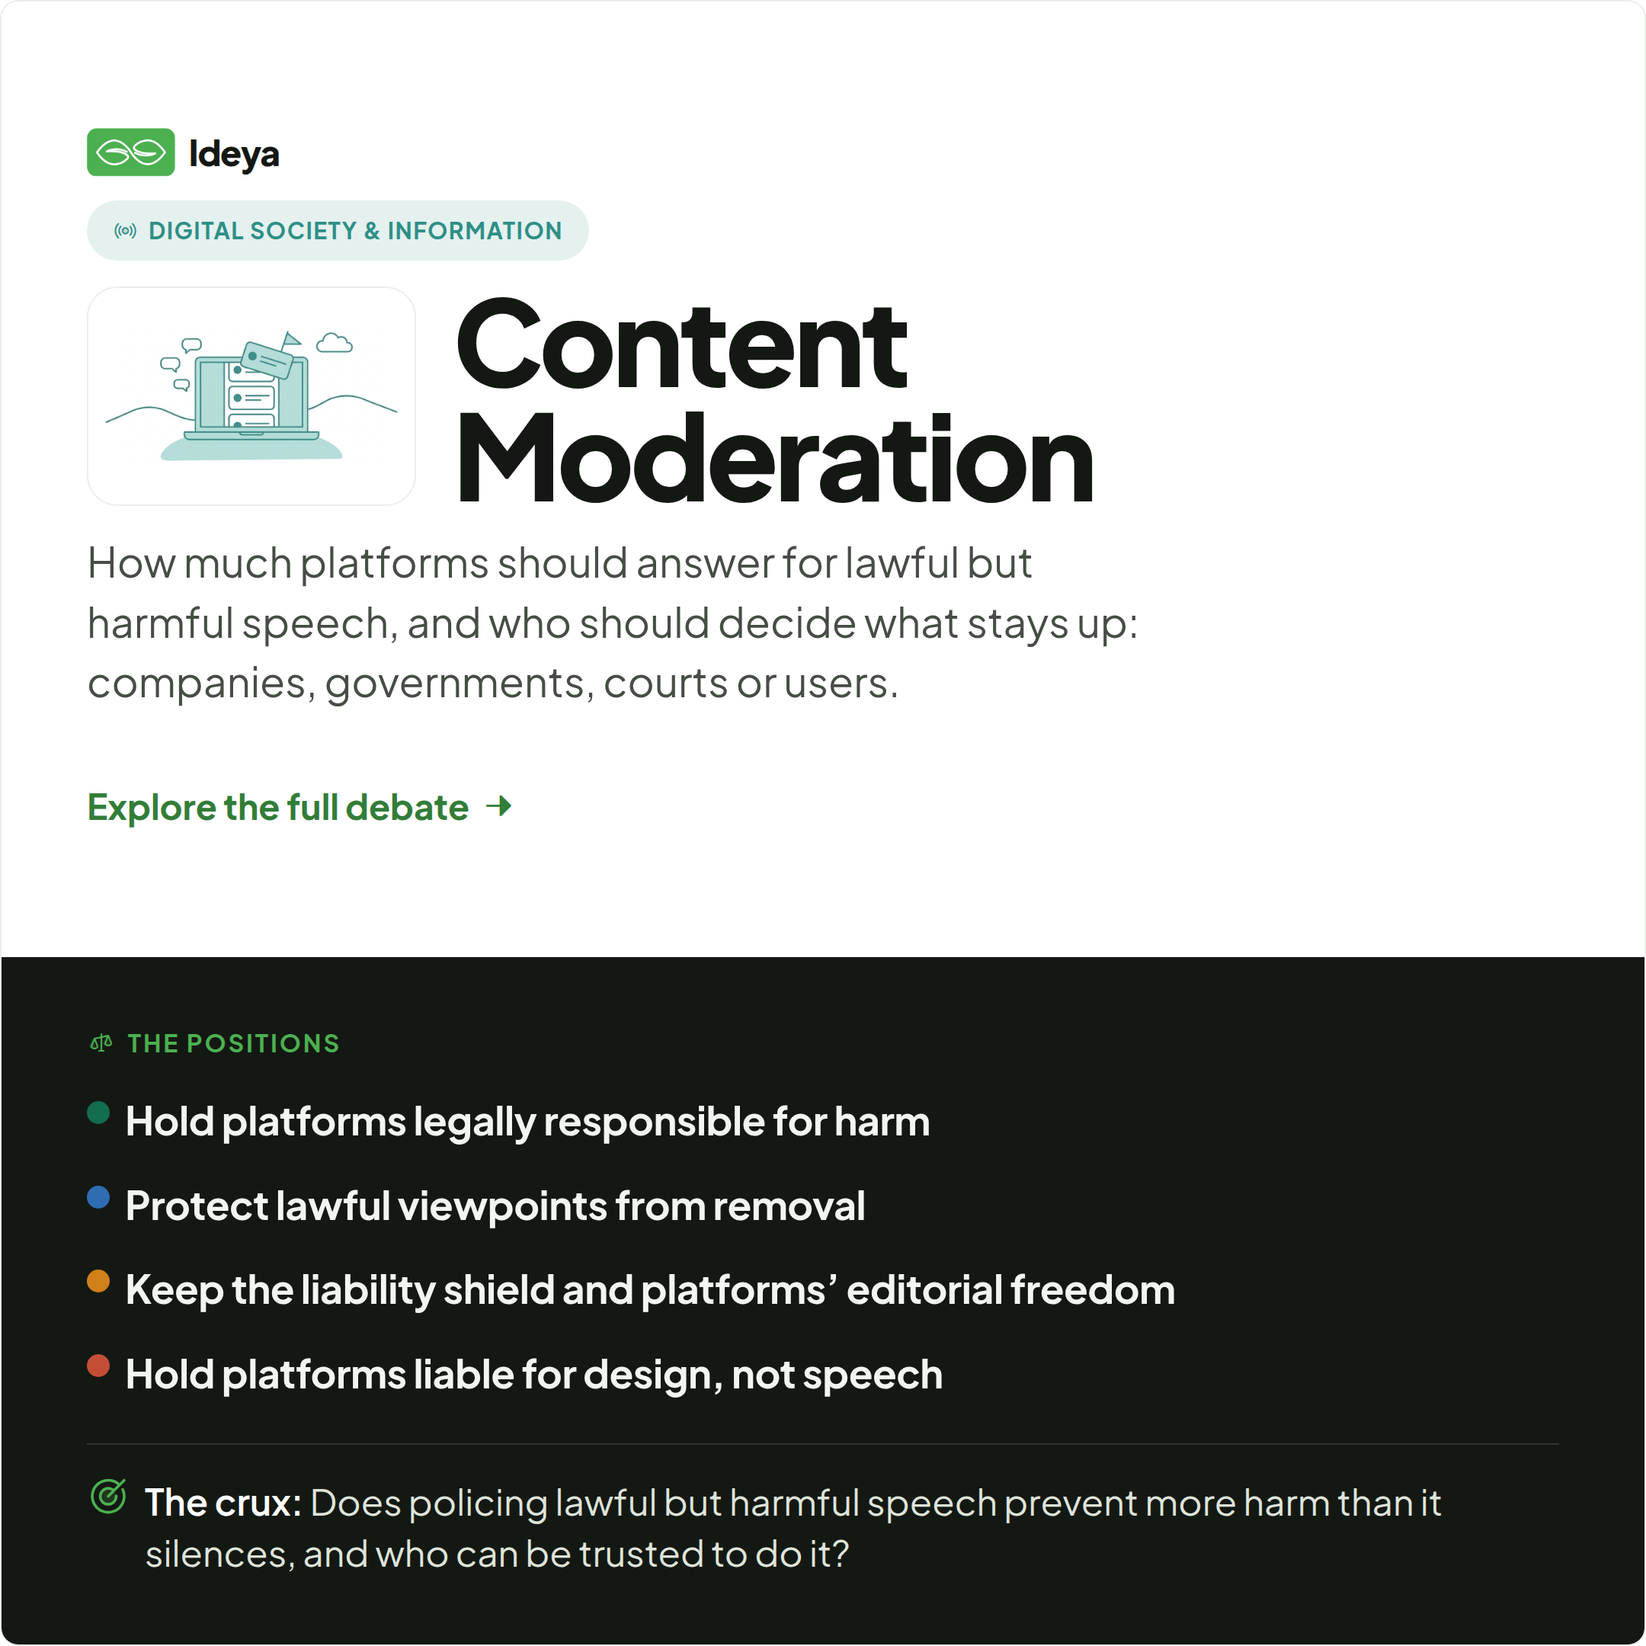
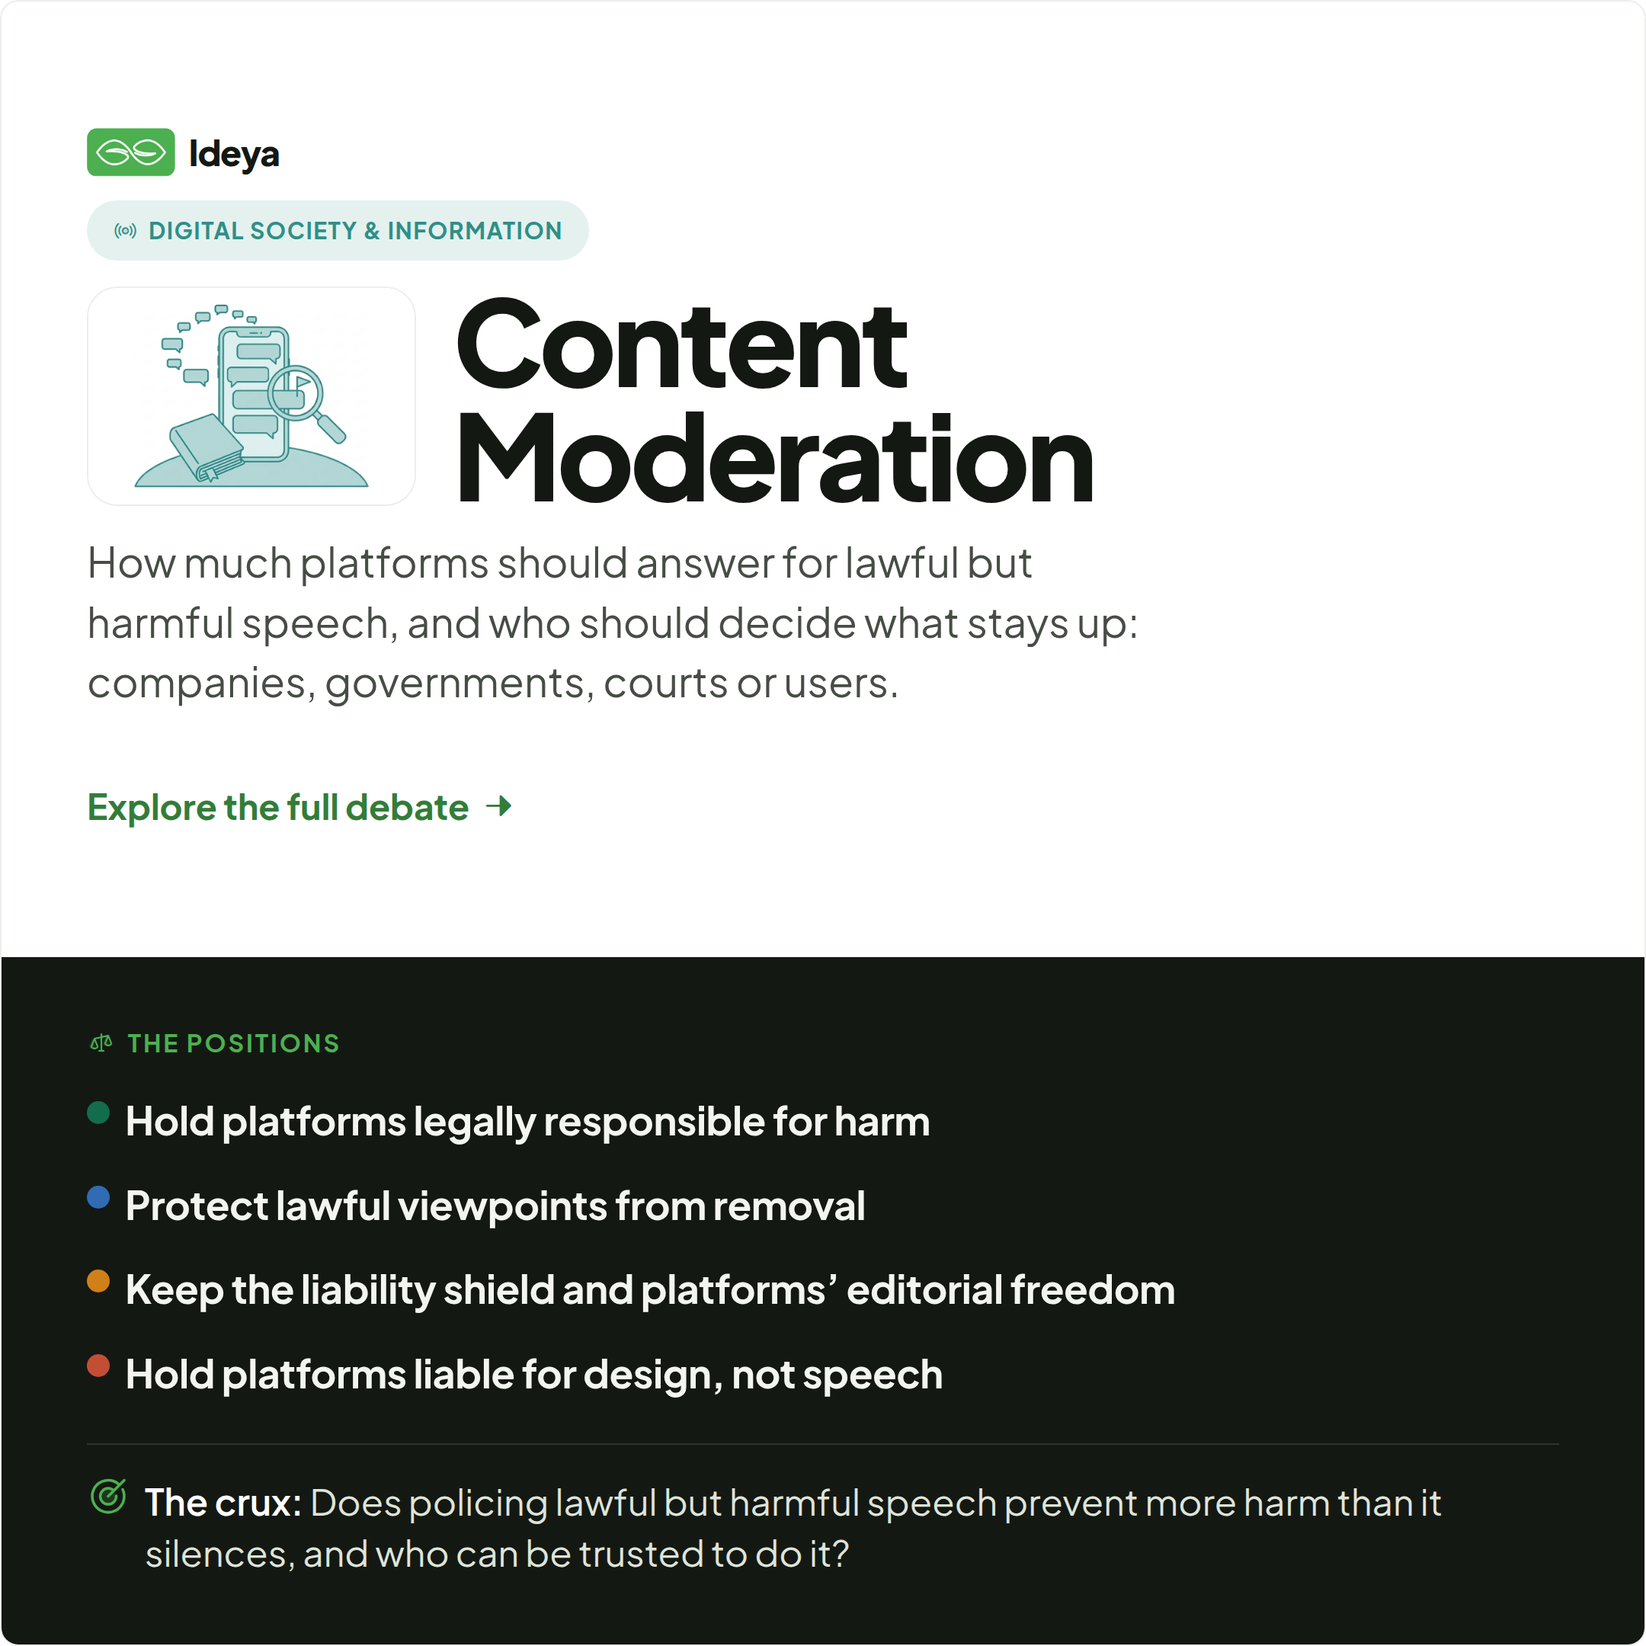
New art for content moderation, gender identity and abortion
The old scenes did not read at card size: a generic laptop feed, a book
and a house on an oval, and an ultrasound fused into a wheeled machine.
Now a feed under review with a rulebook; an ID card with lockers, a
stethoscope and a hurdle; an ultrasound on a pole stand with a calendar
and a statehouse. Share cards re-rendered.

Changed region(s): [[0.0931, 0.1861, 0.2171, 0.3102]]

diff --git a/research/topics/moral-status-of-the-unborn/icon.md b/research/topics/moral-status-of-the-unborn/icon.md
@@ -4,16 +4,16 @@ Deliverable: `static/img/topics/moral-status-of-the-unborn.png`, 1035×690 on wh
 
 ## Scene
 
-A clinic ultrasound cart is the dominant mass, standing right of center with a large
-rounded monitor whose screen holds only an abstract wedge-shaped scan cone with three
-plain sweep arcs inside it and no object of any kind within the cone; its handheld probe hangs on a coiled cord that crosses in front of the cart's
-base. Behind and overlapping the cart's left edge stands a tall wall calendar, its grid
-of week squares partly hidden by the monitor. Low and small at the front sits a closed
-statute book with a ribbon marker, overlapping the cart's wheels. A small domed
-legislative building sits far back on the left at the end of a curving path that sweeps
-out of the lower left corner, past the book, and behind the cart, over a gently rounded
-ground mound rather than a flat line. A thin horizon curve runs edge to edge behind
-everything.
+A large flat ultrasound monitor is the dominant mass, right of center, mounted on one
+slim vertical pole that rises from a small round five-wheeled base, exactly like a hospital
+monitor stand; the screen shows only an abstract wedge-shaped scan cone with three plain
+sweep arcs and nothing inside the cone, and a single handheld probe rests in a small cup
+holder on the pole, its smooth cord hanging in one simple open loop. Low at the front left,
+overlapping the foot of the stand, sits a small desk calendar with a flip page of plain empty
+week squares. Far back on the left, small, a domed legislative building sits on a gently
+rounded hill, and a curving path sweeps from the lower left corner past the calendar up to
+its steps. A thin horizon curve runs edge to edge behind everything. Each object is simple,
+separate in shape and clearly what it is.
 
 ## Negatives
 
@@ -26,7 +26,7 @@ no speech bubbles, no frame or border, no second hue, no shading gradients
 
 ## Prompt
 
-> A minimalist flat vector-style icon illustration, in a clean editorial line-art style: A clinic ultrasound cart is the dominant mass, standing right of center with a large rounded monitor whose screen holds only an abstract wedge-shaped scan cone with three plain sweep arcs inside it and no object of any kind within the cone; its handheld probe hangs on a coiled cord that crosses in front of the cart's base. Behind and overlapping the cart's left edge stands a tall wall calendar, its grid of week squares partly hidden by the monitor. Low and small at the front sits a closed statute book with a ribbon marker, overlapping the cart's wheels. A small domed legislative building sits far back on the left at the end of a curving path that sweeps out of the lower left corner, past the book, and behind the cart, over a gently rounded ground mound rather than a flat line. A thin horizon curve runs edge to edge behind everything.
+> A minimalist flat vector-style icon illustration, in a clean editorial line-art style: A large flat ultrasound monitor is the dominant mass, right of center, mounted on one slim vertical pole that rises from a small round five-wheeled base, exactly like a hospital monitor stand; the screen shows only an abstract wedge-shaped scan cone with three plain sweep arcs and nothing inside the cone, and a single handheld probe rests in a small cup holder on the pole, its smooth cord hanging in one simple open loop. Low at the front left, overlapping the foot of the stand, sits a small desk calendar with a flip page of plain empty week squares. Far back on the left, small, a domed legislative building sits on a gently rounded hill, and a curving path sweeps from the lower left corner past the calendar up to its steps. A thin horizon curve runs edge to edge behind everything. Each object is simple, separate in shape and clearly what it is.
 >
 > Composition: one dominant focal mass with smaller supporting elements at clearly different scales (big, medium, small); at least one element overlaps another so the scene has depth; the ground is a gentle curve, never a flat line; one connective element runs across the frame to tie the pieces together. A single coherent scene, not a row of separate objects. Centered with generous, even padding.
 >
@@ -42,3 +42,5 @@ Round 1, two scenes at two samples each. Scene A: ultrasound cart dominant, cale
 Round 2, one edit on r1-a naming the faults (statehouse strokes too thin and over-detailed, cart body and monitor bezel unfilled, calendar page unfilled, stray ticks). Picked r2-b: dome simplified to one uniform weight, cart body and calendar now carry the fill; r2-a kept the cart body white.
 Normalized r2-b; the 40px thumbnail still reads as a monitor-on-a-cart with the scan image. Glyph: baby — the most literal available for the unborn, unused in the ethics category.
 Fix round 3 (human review: the fetal outline on the screen made the art read as pro-life persuasion). One edit on r2-b, composition and all other elements held, screen contents replaced with an abstract scan cone and three sweep arcs. Picked r3-a: cone empty, arcs at the same stroke weight, everything else unchanged; r3-b was identical but for slightly tighter arc spacing. Brief Scene, Negatives and Prompt updated to match. Glyph unchanged: baby.
+Fix round 4 (owner review: the cart and monitor fused into one odd robot-like object; the wall calendar behind and the statute book in front added clutter). New scenes, two samples each. Scene A: flat monitor on a slim pole stand, small desk calendar at its foot, domed statehouse on a hill with a path; book dropped. Scene B: statehouse on a hill, monitor on a pole, a numberless clock in the sky. Picked r4-b: the monitor and scan cone read at once as a clinic ultrasound, the calendar is a plain desk calendar, the statehouse sits small behind; r4-a is the same scene with a hollow pole and a busier statehouse; r4-c and r4-d float the clock and the monitor, and r4-d gives the hill a heavy fill.
+Fix round 5, one edit on r4-b (simplify the statehouse, fill the hill, lighten the calendar's darker support triangle). Both samples filled the whole lower half as a hard-edged block that reads as a box, and the triangle stayed dark; neither beats r4-b, so stopped. Normalized r4-b; at 40px the monitor and cone read clearly. Residual faults for a human: the statehouse is drawn a little finer than the rest, and the calendar's back support carries a darker fill. Glyph unchanged: baby.

diff --git a/research/topics/content-moderation-free-speech/icon.md b/research/topics/content-moderation-free-speech/icon.md
@@ -4,13 +4,13 @@ The topic's primary art: `static/img/topics/content-moderation-free-speech.png`,
 Style, composition rules and the common negatives are supplied by `manage.py generate_icon`; this file carries only the scene and this subject's own negatives, plus the selection log.
 
 ## Scene
-a large open laptop seen from the front as the dominant focal mass, its screen showing a simple feed of three stacked post cards, each card a rounded rectangle with a plain filled circle dot and two short blank lines; the top card is lifted out of the column and tilted, overlapping the laptop's upper right frame, with a small triangular pennant flag on a short pole at its corner; everything flat, no drop shadow under any element; three small rounded speech bubbles with no text rise in a loose trail from behind the laptop to the upper left; the laptop sits on a low rounded mound, outlined and softly filled; one long thin rolling hill line runs across the whole width of the frame behind the mound as the connective element; a small cloud at the upper right.
+a large upright smartphone as the dominant focal mass, its screen showing a feed of four blank rounded speech bubbles of different widths stacked like posts, no text; a medium magnifying glass overlaps the phone's right edge, its round lens held over one of the bubbles, and that bubble carries a small triangular pennant flag on a short pole; a closed thick rulebook with a plain cover and a bookmark ribbon, no text, leans against the phone's lower left; the phone stands on the gentle curve of a low rounded mound, outlined and softly filled; a trail of small blank speech bubbles rises from the top of the phone and arcs across the frame to the upper left as the connective element.
 
 ## Negatives
 people, hands, faces, text, letters, logos, platform logos, bird, thumbs up, likes, hearts, padlocks, gags, taped mouths, muzzles, chains, scissors, erasers, trash cans, red X marks, crossed-out bubbles, prohibition signs, slashes, stop signs, censored bars, megaphones, gavels, scales of justice, courthouses, flags of nations, shields, warning triangles, exclamation marks, fire, arrows.
 
 ## Prompt
-> A minimalist flat vector-style icon illustration, in a clean editorial line-art style: a large open laptop seen from the front as the dominant focal mass, its screen showing a simple feed of three stacked post cards, each card a rounded rectangle with a plain filled circle dot and two short blank lines; the top card is lifted out of the column and tilted, overlapping the laptop's upper right frame, with a small triangular pennant flag on a short pole at its corner; everything flat, no drop shadow under any element; three small rounded speech bubbles with no text rise in a loose trail from behind the laptop to the upper left; the laptop sits on a low rounded mound, outlined and softly filled; one long thin rolling hill line runs across the whole width of the frame behind the mound as the connective element; a small cloud at the upper right.
+> A minimalist flat vector-style icon illustration, in a clean editorial line-art style: a large upright smartphone as the dominant focal mass, its screen showing a feed of four blank rounded speech bubbles of different widths stacked like posts, no text; a medium magnifying glass overlaps the phone's right edge, its round lens held over one of the bubbles, and that bubble carries a small triangular pennant flag on a short pole; a closed thick rulebook with a plain cover and a bookmark ribbon, no text, leans against the phone's lower left; the phone stands on the gentle curve of a low rounded mound, outlined and softly filled; a trail of small blank speech bubbles rises from the top of the phone and arcs across the frame to the upper left as the connective element.
 >
 > Composition: one dominant focal mass with smaller supporting elements at clearly different scales (big, medium, small); at least one element overlaps another so the scene has depth; the ground is a gentle curve, never a flat line; one connective element runs across the frame to tie the pieces together. A single coherent scene, not a row of separate objects. Centered with generous, even padding.
 >
@@ -28,3 +28,5 @@ Round 3, scene A rewritten with an explicit thin cable. r3-a lost the post lines
 Round 4, scene A with no cable: rolling hill line across the frame as connective, three small bubbles, cloud. Picked r4-a: no shadow, clear flagged post; faults: laptop screen unfilled, flat base line under the mound. r4-b's lifted card lost its lines.
 Round 5, edit of r4-a (fill screen and base, remove flat base line). Picked r5-a: screen now filled, hills kept, mound a soft curve; small bubbles and cloud lost fill, mound has no outline, both minor. r5-b dropped the hill line. Normalized r5-a; 40px reads as a laptop with a flagged card. Spend $1.61.
 Glyph: flag-pennant (the report flag every platform uses; no other digital topic has a glyph yet).
+Fix mode, owner review: the laptop-feed art was generic, nothing in it read as moderation or the free-speech tension. Round 6, scenes C (phone feed of speech bubbles, magnifying glass over a flagged bubble, closed rulebook, trail of bubbles) and D (open rulebook with a stream of bubbles flowing over it, one lifted with a flag), two samples each. Picked r6-a: rules, review and speech in one scene, neither side favored; r6-b fills too dark with a flat base line; r6-c and r6-d read as a book or reading, not platforms. Faults: mound oversized and cropped at the frame, screen unfilled.
+Round 7, edit of r6-a (contain the mound, fill the screen). Picked r7-a: mound inside the frame, screen softly filled; r7-b turned the mound into a flat oval rug. Normalized r7-a; 40px reads as a phone with a magnifier. Spend $2.46 total. Glyph kept: flag-pennant, the flag still appears in the art.

diff --git a/research/topics/gender-identity/icon.md b/research/topics/gender-identity/icon.md
@@ -2,14 +2,14 @@
 Deliverable: static/img/topics/gender-identity.png, 1035×690 on white.
 
 ## Scene
-a large open blank identity booklet standing upright as the dominant focal mass, its blank photo square and blank lines plain, the open cover overlapping a small school gym building with a running track behind it; the track curves across the whole frame from lower left to right as the connective element; a small starting block on the track; a round tree on the right; the ground is a gentle rising curve.
+a large horizontal plastic ID card on a short clip, with a blank empty photo square and blank lines, standing upright on its edge as the dominant focal mass; its corner overlaps a row of three tall changing-room lockers with a slatted bench in front; a stethoscope lies coiled on the bench beside a small sports bag; a single track-and-field hurdle stands on a curving running-track lane that sweeps across the whole frame from lower left to right as the connective element; the ground is a gentle rounded mound with a white margin all round.
 
 ## Negatives
 people, figures, faces, silhouettes, hands, restroom pictograms, gender symbols, transgender symbol, male and female symbols, pride flags, rainbows, pink and blue, protest signs, placards, banners, scales of justice, gavels, question marks, split or half-and-half shapes, mirrors, chromosomes, DNA, pills, syringes, scalpels, crosses, locks, barriers, fences, text, letters.
 
 ## Prompt
 
-> A minimalist flat vector-style icon illustration, in a clean editorial line-art style: a large open blank identity booklet standing upright as the dominant focal mass, its blank photo square and blank lines plain, the open cover overlapping a small school gym building with a running track behind it; the track curves across the whole frame from lower left to right as the connective element; a small starting block on the track; a round tree on the right; the ground is a gentle rising curve.
+> A minimalist flat vector-style icon illustration, in a clean editorial line-art style: a large horizontal plastic ID card on a short clip, with a blank empty photo square and blank lines, standing upright on its edge as the dominant focal mass; its corner overlaps a row of three tall changing-room lockers with a slatted bench in front; a stethoscope lies coiled on the bench beside a small sports bag; a single track-and-field hurdle stands on a curving running-track lane that sweeps across the whole frame from lower left to right as the connective element; the ground is a gentle rounded mound with a white margin all round.
 >
 > Composition: one dominant focal mass with smaller supporting elements at clearly different scales (big, medium, small); at least one element overlaps another so the scene has depth; the ground is a gentle curve, never a flat line; one connective element runs across the frame to tie the pieces together. A single coherent scene, not a row of separate objects. Centered with generous, even padding.
 >
@@ -25,3 +25,8 @@ Round 1 (first attempt, earlier session): Gemini returned 402, prepayment credit
 Round 1, resumed: scene A (sports center with two changing-room doors, track, leaning ID booklet; the original brief scene) one sample, r1-a; scene B (upright open ID booklet dominant over a school gym and curving track) two samples, r1-b and r1-c; the fourth call hit an intermittent 402. Picked r1-b: booklet reads at once, track ties the frame; r1-a leaves the building front and booklet unfilled and the doors read as a lineup; r1-c's booklet reads as a door.
 Round 2, edit of r1-b (fill the right page, round the ground). Picked r2-a: fills now read; r2-b turned pink, a negative and off-hue. Fault left: the ground bleeds off the bottom and sides.
 Round 3, edit of r2-a (contain the mound inside the frame). Picked r3-a: closed oval mound like the DEI sibling, white margin all round; r3-b's capsule ground is stiffer. 40px thumbnail reads as an open booklet. Spend $0.98.
+Fix mode (owner review, 2026-10-28): the r3-a booklet read as a plain book, the gym as a small house, the track as a pink plate; no arena was legible at card size. Replaced the scene; negatives kept.
+Round 4, scene A (horizontal ID card on a clip, changing-room lockers and bench, hurdle on a curving track) and scene B (ID card, stadium with floodlights, clipboard with stethoscope, track), two samples each. A reads as ID, locker room and sport at a glance but has no medical arena; r4-c put a person silhouette in the photo square; r4-d reads but has no single-sex space.
+Round 5, scene A plus a stethoscope coiled on the bench, two samples. Picked r5-a: all four arenas legible, card dominant, lockers overlap; faults: lockers ghost through the card, ground cut flat at the bottom. r5-b breaks the track into a straight bar off the right edge.
+Round 6, edit of r5-a (card opaque, closed oval ground, larger stethoscope). Picked r6-b: card opaque, track kept; r6-a dropped the track lanes, losing the connective element. Fault left: oval outline open along the bottom.
+Round 7, edit of r6-b (close the oval outline). Picked r7-a: closed oval, white margin all round; r7-b near identical. 40px thumbnail reads as a card in front of lockers; the glyph covers small slots. Glyph identification-card kept, it matches the new focal mass. Spend $2.40 total.
